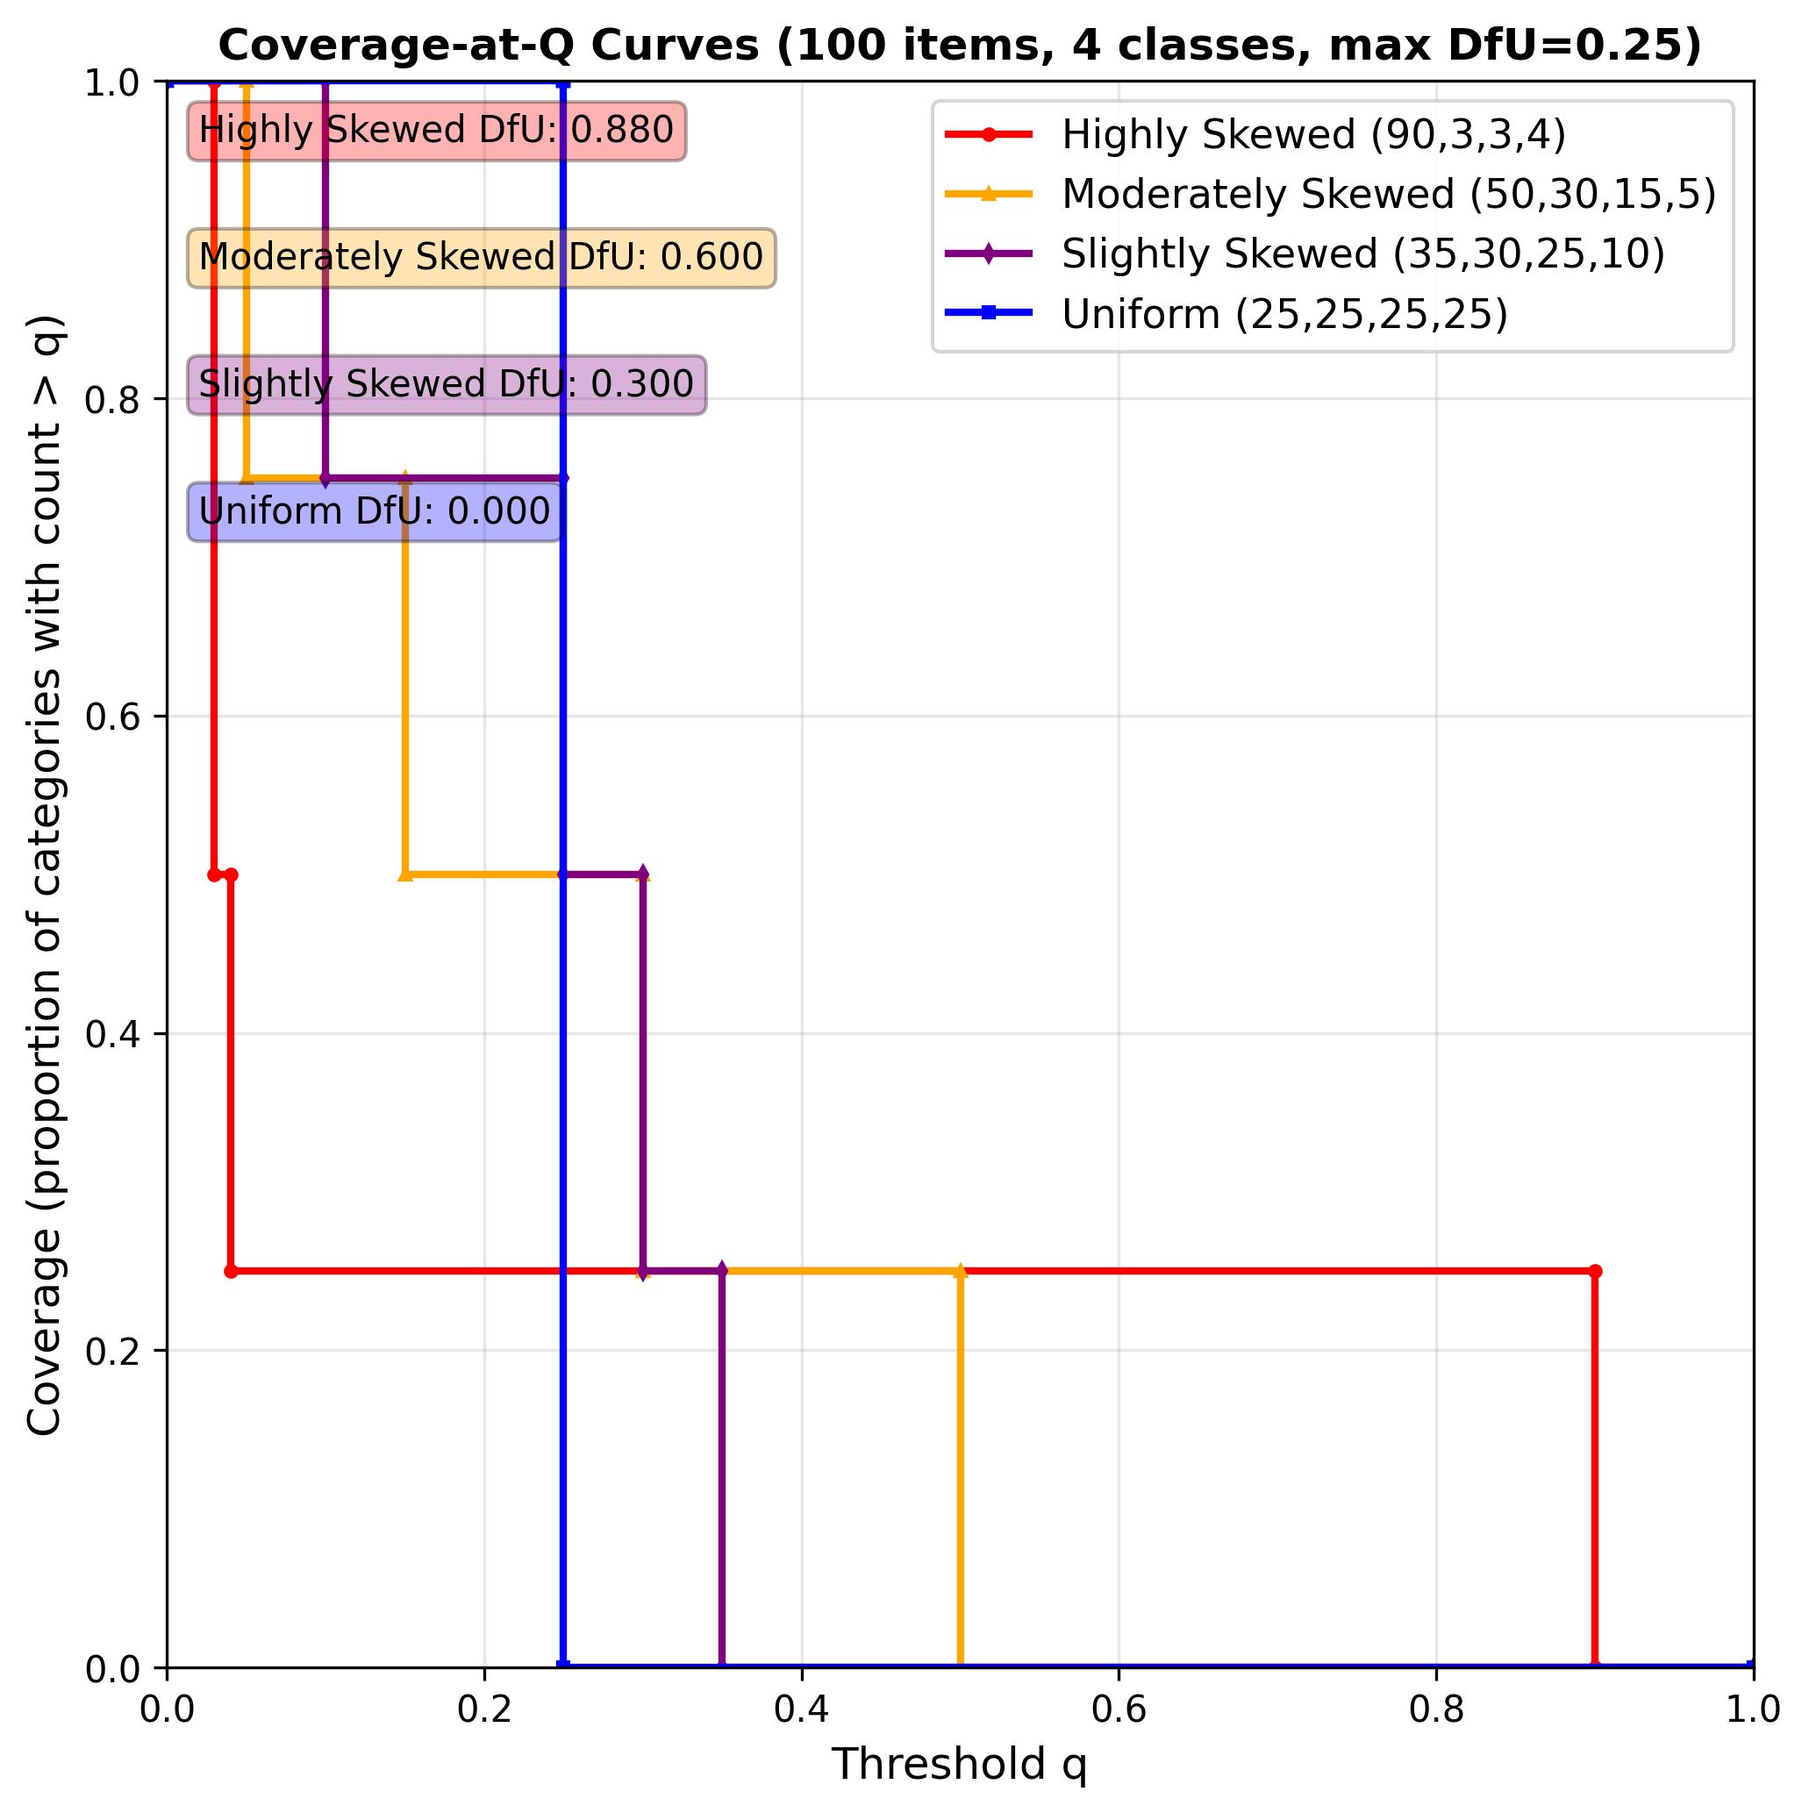
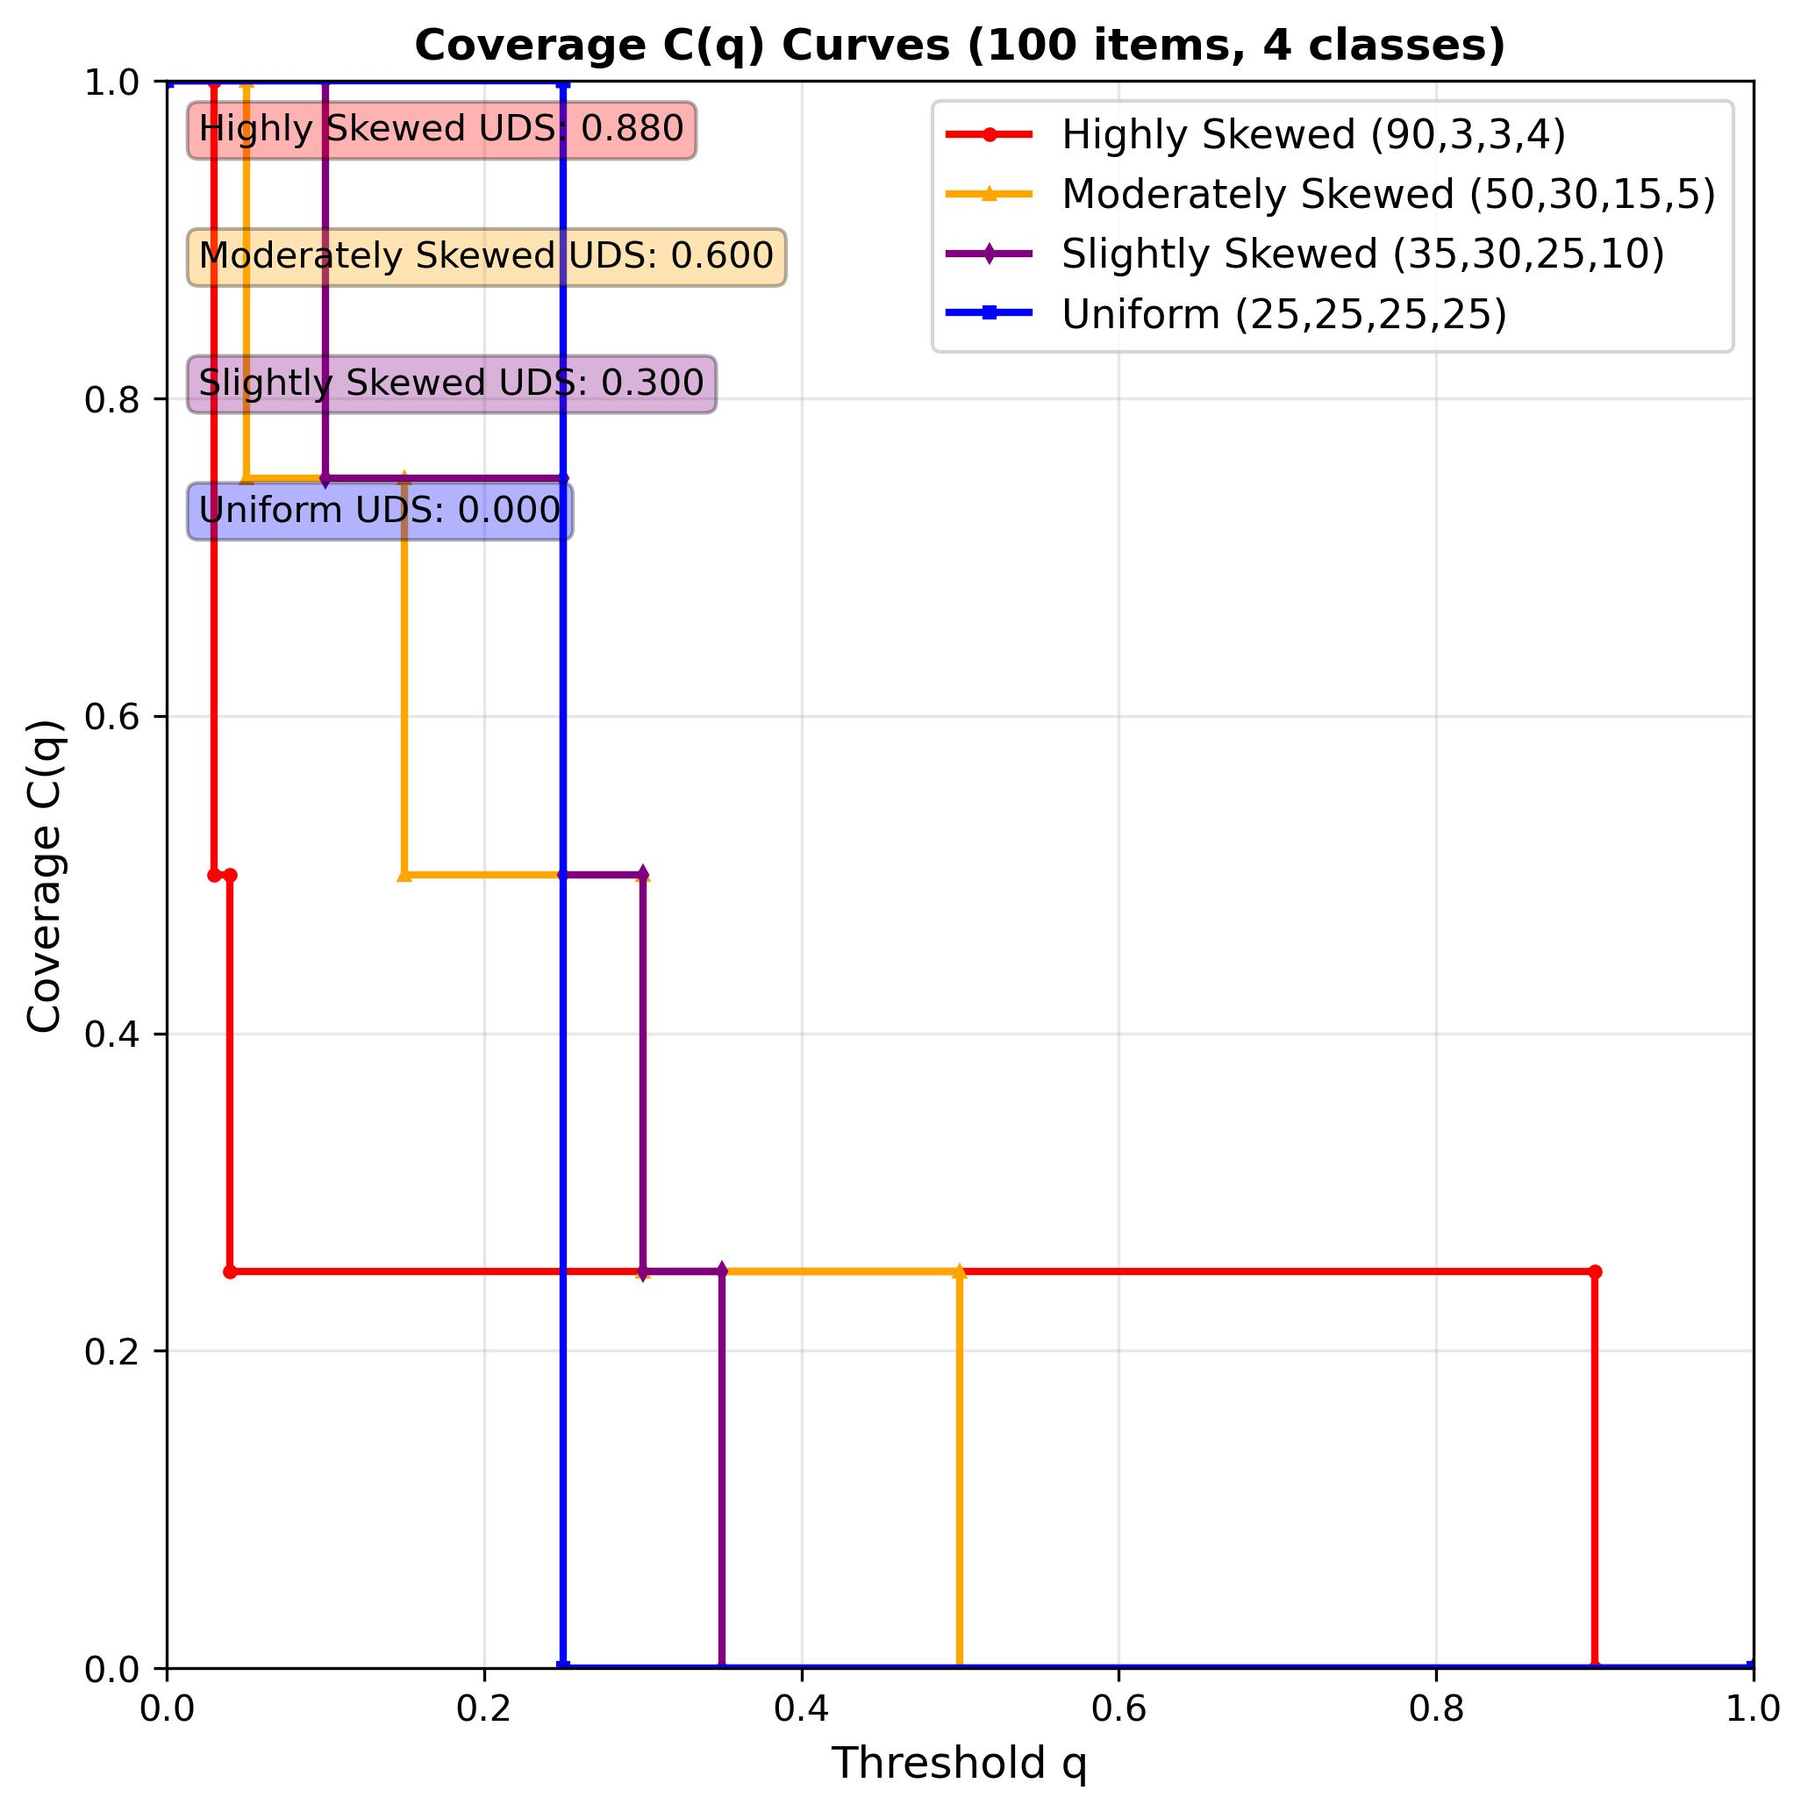
new naming schemes

diff --git a/example_caq.py b/example_caq.py
@@ -2,7 +2,7 @@ import matplotlib.pyplot as plt
 import numpy as np
 
 from collections import Counter
-from metrics import coverage_at_q, deviation_from_uniform
+from metrics import coverage_at_q, deviation_from_uniform, uniform_divergence_score
 
 def generate_coverage_curve(probs):
     """
@@ -56,8 +56,8 @@ def plot_coverage_at_q(probs_skewed, probs_skewed2, probs_skewed3, probs_uniform
     
     # Customize the plot
     plt.xlabel('Threshold q', fontsize=12)
-    plt.ylabel('Coverage (proportion of categories with count > q)', fontsize=12)
-    plt.title('Coverage-at-Q Curves (100 items, 4 classes, max DfU=0.25)', fontsize=12, fontweight='bold')
+    plt.ylabel('Coverage C(q)', fontsize=12)
+    plt.title('Coverage C(q) Curves (100 items, 4 classes)', fontsize=12, fontweight='bold')
     plt.grid(True, alpha=0.3)
     plt.legend(fontsize=11)
     
@@ -66,18 +66,18 @@ def plot_coverage_at_q(probs_skewed, probs_skewed2, probs_skewed3, probs_uniform
     plt.ylim(0, 1.0)
     
     # Add AUC-C@Q values as text
-    dfu_skewed = deviation_from_uniform(probs_skewed)
-    dfu_skewed2 = deviation_from_uniform(probs_skewed2)
-    dfu_skewed3 = deviation_from_uniform(probs_skewed3)
-    dfu_uniform = deviation_from_uniform(probs_uniform)
+    dfu_skewed = uniform_divergence_score(probs_skewed)
+    dfu_skewed2 = uniform_divergence_score(probs_skewed2)
+    dfu_skewed3 = uniform_divergence_score(probs_skewed3)
+    dfu_uniform = uniform_divergence_score(probs_uniform)
     
-    plt.text(0.02, 0.98, f'Highly Skewed DfU: {dfu_skewed:.3f}', transform=plt.gca().transAxes, 
+    plt.text(0.02, 0.98, f'Highly Skewed UDS: {dfu_skewed:.3f}', transform=plt.gca().transAxes, 
              verticalalignment='top', bbox=dict(boxstyle='round', facecolor='red', alpha=0.3))
-    plt.text(0.02, 0.90, f'Moderately Skewed DfU: {dfu_skewed2:.3f}', transform=plt.gca().transAxes, 
+    plt.text(0.02, 0.90, f'Moderately Skewed UDS: {dfu_skewed2:.3f}', transform=plt.gca().transAxes, 
              verticalalignment='top', bbox=dict(boxstyle='round', facecolor='orange', alpha=0.3))
-    plt.text(0.02, 0.82, f'Slightly Skewed DfU: {dfu_skewed3:.3f}', transform=plt.gca().transAxes, 
+    plt.text(0.02, 0.82, f'Slightly Skewed UDS: {dfu_skewed3:.3f}', transform=plt.gca().transAxes, 
              verticalalignment='top', bbox=dict(boxstyle='round', facecolor='purple', alpha=0.3))
-    plt.text(0.02, 0.74, f'Uniform DfU: {dfu_uniform:.3f}', transform=plt.gca().transAxes, 
+    plt.text(0.02, 0.74, f'Uniform UDS: {dfu_uniform:.3f}', transform=plt.gca().transAxes, 
              verticalalignment='top', bbox=dict(boxstyle='round', facecolor='blue', alpha=0.3))
     
     plt.gca().set_aspect('equal', adjustable='box')
@@ -110,20 +110,20 @@ if __name__ == "__main__":
     probs_uniform = {k: v / total_uniform for k, v in counts_uniform.items()}
 
     print(f"--- Highly Skewed Distribution (Total Items: {sum(counts_skewed.values())}) ---")
-    print(f"C@0 (Coverage): {coverage_at_q(counts_skewed, 0):.3f}")
-    print(f"DfU: {deviation_from_uniform(probs_skewed):.3f}\n")
+    print(f"C(0): {coverage_at_q(counts_skewed, 0):.3f}")
+    print(f"UDS: {uniform_divergence_score(probs_skewed):.3f}\n")
 
     print(f"--- Moderately Skewed Distribution (Total Items: {sum(counts_skewed2.values())}) ---")
-    print(f"C@0 (Coverage): {coverage_at_q(counts_skewed2, 0):.3f}")
-    print(f"DfU: {deviation_from_uniform(probs_skewed2):.3f}\n")
+    print(f"C(0): {coverage_at_q(counts_skewed2, 0):.3f}")
+    print(f"UDS: {uniform_divergence_score(probs_skewed2):.3f}\n")
 
     print(f"--- Slightly Skewed Distribution (Total Items: {sum(counts_skewed3.values())}) ---")
-    print(f"C@0 (Coverage): {coverage_at_q(counts_skewed3, 0):.3f}")
-    print(f"DfU: {deviation_from_uniform(probs_skewed3):.3f}\n")
+    print(f"C(0): {coverage_at_q(counts_skewed3, 0):.3f}")
+    print(f"UDS: {uniform_divergence_score(probs_skewed3):.3f}\n")
 
     print(f"--- Uniform Distribution (Total Items: {sum(counts_uniform.values())}) ---")
-    print(f"C@0 (Coverage): {coverage_at_q(counts_uniform, 0):.3f}")
-    print(f"DfU: {deviation_from_uniform(probs_uniform):.3f}\n")
+    print(f"C(0): {coverage_at_q(counts_uniform, 0):.3f}")
+    print(f"UDS: {uniform_divergence_score(probs_uniform):.3f}\n")
     
     # Create visualization
     print("Generating Coverage-at-Q visualization...")

diff --git a/example.py b/example.py
@@ -87,20 +87,20 @@ if __name__ == "__main__":
     total_possible_cats = 4  # Only 4 possible classes
 
     print(f"--- Highly Skewed Distribution (Total Items: {sum(counts_skewed.values())}) ---")
-    print(f"C@0 (Coverage): {coverage_at_k(counts_skewed, 0, total_possible_cats):.3f}")
-    print(f"AUC-C@K: {auc_catk(counts_skewed, total_possible_cats):.3f}\n")
+    print(f"C(0): {coverage_at_k(counts_skewed, 0, total_possible_cats):.3f}")
+    print(f"AUC-C(K): {auc_catk(counts_skewed, total_possible_cats):.3f}\n")
 
     print(f"--- Moderately Skewed Distribution (Total Items: {sum(counts_skewed2.values())}) ---")
-    print(f"C@0 (Coverage): {coverage_at_k(counts_skewed2, 0, total_possible_cats):.3f}")
-    print(f"AUC-C@K: {auc_catk(counts_skewed2, total_possible_cats):.3f}\n")
+    print(f"C(0): {coverage_at_k(counts_skewed2, 0, total_possible_cats):.3f}")
+    print(f"AUC-C(K): {auc_catk(counts_skewed2, total_possible_cats):.3f}\n")
 
     print(f"--- Slightly Skewed Distribution (Total Items: {sum(counts_skewed3.values())}) ---")
-    print(f"C@0 (Coverage): {coverage_at_k(counts_skewed3, 0, total_possible_cats):.3f}")
-    print(f"AUC-C@K: {auc_catk(counts_skewed3, total_possible_cats):.3f}\n")
+    print(f"C(0): {coverage_at_k(counts_skewed3, 0, total_possible_cats):.3f}")
+    print(f"AUC-C(K): {auc_catk(counts_skewed3, total_possible_cats):.3f}\n")
 
     print(f"--- Uniform Distribution (Total Items: {sum(counts_uniform.values())}) ---")
-    print(f"C@0 (Coverage): {coverage_at_k(counts_uniform, 0, total_possible_cats):.3f}")
-    print(f"AUC-C@K: {auc_catk(counts_uniform, total_possible_cats):.3f}\n")
+    print(f"C(0): {coverage_at_k(counts_uniform, 0, total_possible_cats):.3f}")
+    print(f"AUC-C(K): {auc_catk(counts_uniform, total_possible_cats):.3f}\n")
     
     # Create visualization
     print("Generating Coverage-at-K visualization...")

diff --git a/metrics.py b/metrics.py
@@ -119,3 +119,8 @@ def deviation_from_uniform(probs: dict) -> float:
             area = area + coverage_values[i] * (q - (q_values[i-1] if i > 0 else 0))
 
     return num_categories * area
+
+# Alias for new terminology (Uniform Divergence Score / UDS)
+def uniform_divergence_score(probs: dict) -> float:
+    """Alias of deviation_from_uniform for UDS naming consistency."""
+    return deviation_from_uniform(probs)

diff --git a/README.md b/README.md
@@ -4,8 +4,8 @@ Keunwoo Choi & Kyunghyun Cho (Sep 2025)
 
 Two lightweight, interpretable metrics for describing how "spread out" (vs. sharp / concentrated) a categorical distribution or histogram is:
 
-1. Coverage-at-K (C@K) on raw counts, with a normalized area metric AUC-C@K.
-2. Coverage-at-Q (C@Q) on probabilities, with a Difference-from-Uniform score (DfU).
+1. Coverage-at-K (C(K)) on counts with threshold K, and a normalized area metric AUC-C(K).
+2. Coverage-at-Q (C(q)) on probabilities with threshold q, and a Uniform Divergence Score (UDS).
 
 Both relax the binary notion of "covered vs. not" by varying a threshold and aggregating the resulting step curve.
 
@@ -37,67 +37,67 @@ Plots (generated by the example scripts):
 
 Entropy is standard but often unintuitive to non-specialists. Plain coverage (fraction of non‑empty categories) is easy but brittle: a single noisy occurrence inflates it. We instead look at how coverage decays as the minimum acceptable count (K) or probability (Q) increases.
 
-## 2. Coverage-at-K (C@K)
+## 2. Coverage-at-K (C(K))
 
 Given a count vector over a universe of `total_possible` categories (some may be absent), define
 
 ```
-C@K = (# categories with count > K) / total_possible.
+C(K) = (# categories with count > K) / total_possible.
 ```
 
 Notes:
-* Strict inequality (> K) makes C@0 equal to ordinary coverage (non‑empty proportion).
-* C@K is non‑increasing in K and eventually reaches 0.
+* Strict inequality (> K) makes C(0) equal to ordinary coverage (non‑empty proportion).
+* C(K) is non‑increasing in K and eventually reaches 0.
 
 Example (counts: A=10, B=15, C=35, D=50; total_possible=4):
-* C@0 … C@9 = 1.00
-* C@10 … C@14 = 0.75
-* C@15 … C@34 = 0.50
-* C@35 … C@49 = 0.25
-* C@50+ = 0.00
+* C(0) … C(9) = 1.00
+* C(10) … C(14) = 0.75
+* C(15) … C(34) = 0.50
+* C(35) … C(49) = 0.25
+* C(50+) = 0.00
 
-### 2.1 Even Point and AUC-C@K
+### 2.1 Even Point and AUC-C(K)
 
 Let:
 * `total_items = sum(counts)`
 * `observed_categories = number of categories with count > 0`
 * `even_point = floor(total_items / observed_categories)`
 
-This is the per-category count each observed category would have under perfect evenness. We integrate (sum) C@K for K = 0 … even_point - 1 (i.e. `even_point` terms). To normalize, we compare against the "ideal" uniform plateau height: `(observed_categories / total_possible)`.
+This is the per-category count each observed category would have under perfect evenness. We integrate (sum) C(K) for K = 0 … even_point - 1 (i.e. `even_point` terms). To normalize, we compare against the "ideal" uniform plateau height: `(observed_categories / total_possible)`.
 
 ```
-observed_area = sum_{K=0}^{even_point-1} C@K
+observed_area = sum_{K=0}^{even_point-1} C(K)
 ideal_area    = even_point * (observed_categories / total_possible)
-AUC-C@K       = observed_area / ideal_area   ∈ [0,1].
+AUC-C(K)      = observed_area / ideal_area   ∈ [0,1].
 ```
 
 Interpretation:
 * 1.0 ⇒ all observed categories are as even as possible (uniform among those present AND all possible categories appear).
 * ↓ toward 0 ⇒ mass is concentrated in fewer categories relative to ideal evenness.
 
-## 3. Coverage-at-Q (C@Q)
+## 3. Coverage-at-Q (C(q))
 
 For a probability vector `p` over C categories (∑ p_c = 1), define
 
 ```
-C@Q = (# categories with p_c ≥ Q) / C.
+C(q) = (# categories with p_c ≥ q) / C.
 ```
 
 This produces a non‑increasing step function from Q=0 (value 1) to Q>max p_c (value 0).
 
 Uniform distribution (all p_c = 1/C):
-* C@Q = 1 for 0 ≤ Q ≤ 1/C
-* C@Q = 0 for Q > 1/C
+* C(q) = 1 for 0 ≤ q ≤ 1/C
+* C(q) = 0 for q > 1/C
 
-## 4. Difference-from-Uniform (DfU)
+## 4. Uniform Divergence Score (UDS)
 
-We measure how far C@Q deviates from the uniform step. Let `q* = 1/C`. Define:
+We measure how far C(q) deviates from the uniform step. Let `q* = 1/C`. Define:
 
 ```
-DfU(p) = C * [ ∫_{0}^{q*} (1 - C@Q(p)) dQ  +  ∫_{q*}^{1} C@Q(p) dQ ].
+UDS(p) = C * [ ∫_{0}^{q*} (1 - C(q)(p)) dq  +  ∫_{q*}^{1} C(q)(p) dq ].
 ```
 
-Because C@Q(p) and the uniform reference are proportions (already divided by C), DfU ∈ [0,1]:
+Because C(q)(p) and the uniform reference are proportions (already divided by C), UDS ∈ [0,1]:
 * 0 for the uniform distribution.
 * 1 for the maximally sharp (Dirac) distribution.
 
@@ -105,16 +105,16 @@ Implementation detail: we exploit the breakpoints at the sorted probabilities; t
 
 ## 5. Functions Provided (`metrics.py`)
 
-* `coverage_at_k(counts, k, total_possible)` → C@K
-* `auc_catk(counts, total_possible)` → normalized AUC-C@K
-* `coverage_at_q(probs, q)` → C@Q (≥ threshold)
-* `deviation_from_uniform(probs)` → DfU
+* `coverage_at_k(counts, k, total_possible)` → C(K)
+* `auc_catk(counts, total_possible)` → normalized AUC-C(K)
+* `coverage_at_q(probs, q)` → C(q) (≥ threshold)
+* `deviation_from_uniform(probs)` / `uniform_divergence_score(probs)` → UDS
 
 All inputs are lightweight Python primitives (`Counter`, `dict`).
 
 ## 6. Examples
 
-### 6.1 Coverage-at-K / AUC-C@K
+### 6.1 Coverage-at-K / AUC-C(K)
 
 See `example.py` (also generates `coverage_at_k.jpg`).
 
@@ -129,7 +129,7 @@ total_possible = 4
 print(auc_catk(counts_skewed, total_possible))  # 0.350
 ```
 
-### 6.2 Coverage-at-Q / DfU
+### 6.2 Coverage-at-Q / UDS
 
 See `example_caq.py` (also generates `coverage_at_q.jpg`).
 
@@ -149,35 +149,35 @@ Both scripts print metric values for four qualitative regimes: uniform, slightly
 
 ## 7. Interpreting the Metrics
 
-| Distribution (100 items, 4 cats) | C@0 | AUC-C@K | DfU  |
-|----------------------------------|-----|---------|------|
-| Uniform (25,25,25,25)            | 1.0 | 1.000   | 0.000|
-| Slightly skewed (35,30,25,10)    | 1.0 | 0.850   | 0.300|
-| Moderately skewed (50,30,15,5)   | 1.0 | 0.700   | 0.600|
-| Highly skewed (90,3,3,4)         | 1.0 | 0.350   | 0.880|
+| Distribution (100 items, 4 cats) | C(0) | AUC-C(K) | UDS  |
+|----------------------------------|------|----------|------|
+| Uniform (25,25,25,25)            | 1.0  | 1.000    | 0.000|
+| Slightly skewed (35,30,25,10)    | 1.0  | 0.850    | 0.300|
+| Moderately skewed (50,30,15,5)   | 1.0  | 0.700    | 0.600|
+| Highly skewed (90,3,3,4)         | 1.0  | 0.350    | 0.880|
 
 Heuristics:
-* AUC-C@K decreases smoothly with concentration; DfU increases.
-* C@0 alone cannot distinguish the four examples (all 1.0) — motivating these richer summaries.
+* AUC-C(K) decreases smoothly with concentration; UDS increases.
+* C(0) alone cannot distinguish the four examples (all 1.0) — motivating these richer summaries.
 
 Complementarity:
-* AUC-C@K depends on raw counts and the set of *possible* categories.
-* DfU depends only on normalized probabilities (ignores total mass and unseen possible categories).
+* AUC-C(K) depends on raw counts and the set of *possible* categories.
+* UDS depends only on normalized probabilities (ignores total mass and unseen possible categories).
 
 ## 8. Usage
 
 ```
-python example.py      # Coverage-at-K & AUC-C@K
-python example_caq.py  # Coverage-at-Q & DfU
+python example.py      # Coverage-at-K & AUC-C(K)
+python example_caq.py  # Coverage-at-Q & UDS
 ```
 
 Outputs include printed metric values and saved plots in the repository root.
 
 ## 9. Limitations & Notes
 
-* C@K uses a strict > K; changing to ≥ would shift plateau lengths.
-* AUC-C@K normalization assumes interest in evenness among all possible categories; if `total_possible` is unknown, you could substitute `len(counts)`.
-* DfU is sensitive only to ordering and magnitudes of probabilities, not to sample size.
+* C(K) uses a strict > K; changing to ≥ would shift plateau lengths.
+* AUC-C(K) normalization assumes interest in evenness among all possible categories; if `total_possible` is unknown, you could substitute `len(counts)`.
+* UDS is sensitive only to ordering and magnitudes of probabilities, not to sample size.
 * Very small sample sizes can make counts-based AUC-C@K unstable; consider smoothing or minimum count filters.
 * Neither metric replaces entropy; they are alternative, more interpretable lenses.
 
